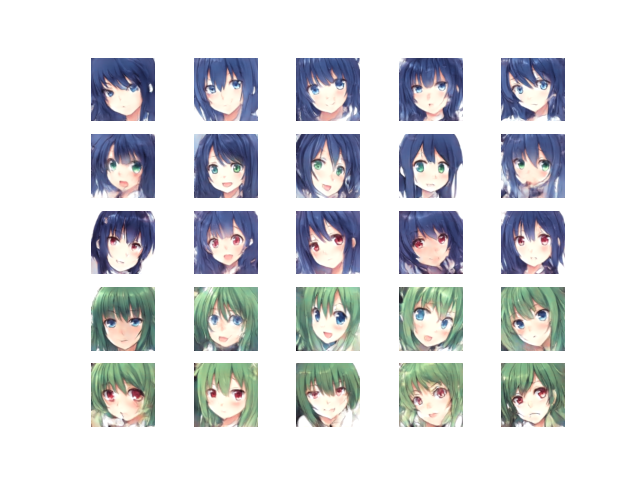
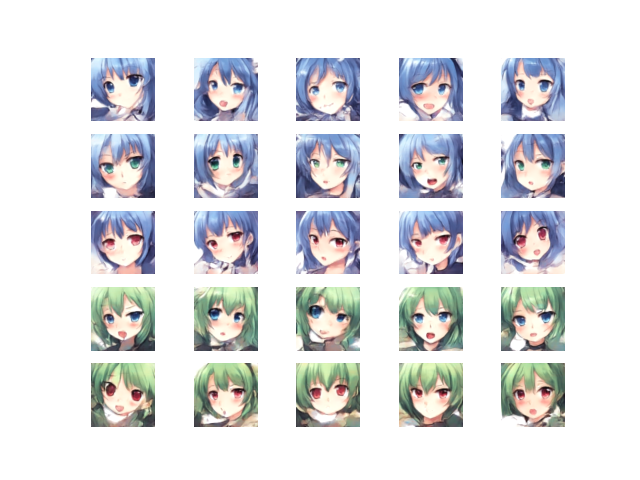
change seed

diff --git a/hw3/draw.py b/hw3/draw.py
@@ -10,7 +10,7 @@ latent_dim = 128
 colorizer = torch.load(os.path.join('saved_model', 'Colorizer-x.pt'))
 #colorizer = torch.load(os.path.join('saved_model', 'Colorizer-290.pt'))
 colorizer = colorizer.eval()
-hairIllum = [0.4, 0.9, 0.6, 0.5, 0.5, 0.3, 0.5, 0.6, 0.3, 0.15, 0.4, 0.7]
+Illum = [0.4, 0.9, 0.6, 0.5, 0.5, 0.3, 0.5, 0.6, 0.3, 0.15, 0.4, 0.7]
 
 
 def draw(tagtext, generator, std=0.2, input_imgs=None, resize=True, output_num=1):
@@ -35,7 +35,7 @@ def draw(tagtext, generator, std=0.2, input_imgs=None, resize=True, output_num=1
         # generate image
         noise = torch.randn(output_num, latent_dim) * std
         noise = createVariable(noise, True, True)
-        I = torch.FloatTensor([hairIllum[hair] for _ in range(output_num)])
+        I = torch.FloatTensor([Illum[hair] for _ in range(output_num)])
         I = createVariable(I, True, True)
         x = generator(noise, I)
     else:

diff --git a/hw3/dataset.py b/hw3/dataset.py
@@ -29,12 +29,9 @@ class Data(Dataset):
         
         data = []
         for img in imgs:
-            I = illum(img)
-            t = I[8:24, 16:-16]
-            l = t >= np.percentile(t, 25)
-            u = t <= np.percentile(t, 75)
-            tag = float(np.mean(t[np.logical_and(l, u)]))
-            data.append((I, tag))
+            gray = illum(img)
+            tag = float(np.mean(gray)) #illum
+            data.append((gray, tag))
         
         data = [(torch.from_numpy(img).float().unsqueeze(0), FloatTensor([tag])) for img, tag in data]
         self.data = data

diff --git a/hw3/gen_output.py b/hw3/gen_output.py
@@ -8,7 +8,7 @@ matplotlib.use('Agg')
 
 torch.backends.cudnn.benchmark = True
 batch_size=64
-seed = 878787
+seed = int(sys.argv[2])
 random.seed(seed)
 np.random.seed(seed)
 torch.manual_seed(seed)
@@ -28,7 +28,7 @@ def save_imgs(gen_imgs):
             axs[i,j].axis('off')
             cnt += 1
     #fig.savefig("samples/cgan_original.png")
-    #fig.savefig("samples/cgan-%d.png" % seed)
+    #fig.savefig("test/cgan-%d.png" % seed)
     fig.savefig("samples/cgan.png")
     plt.close()
 
